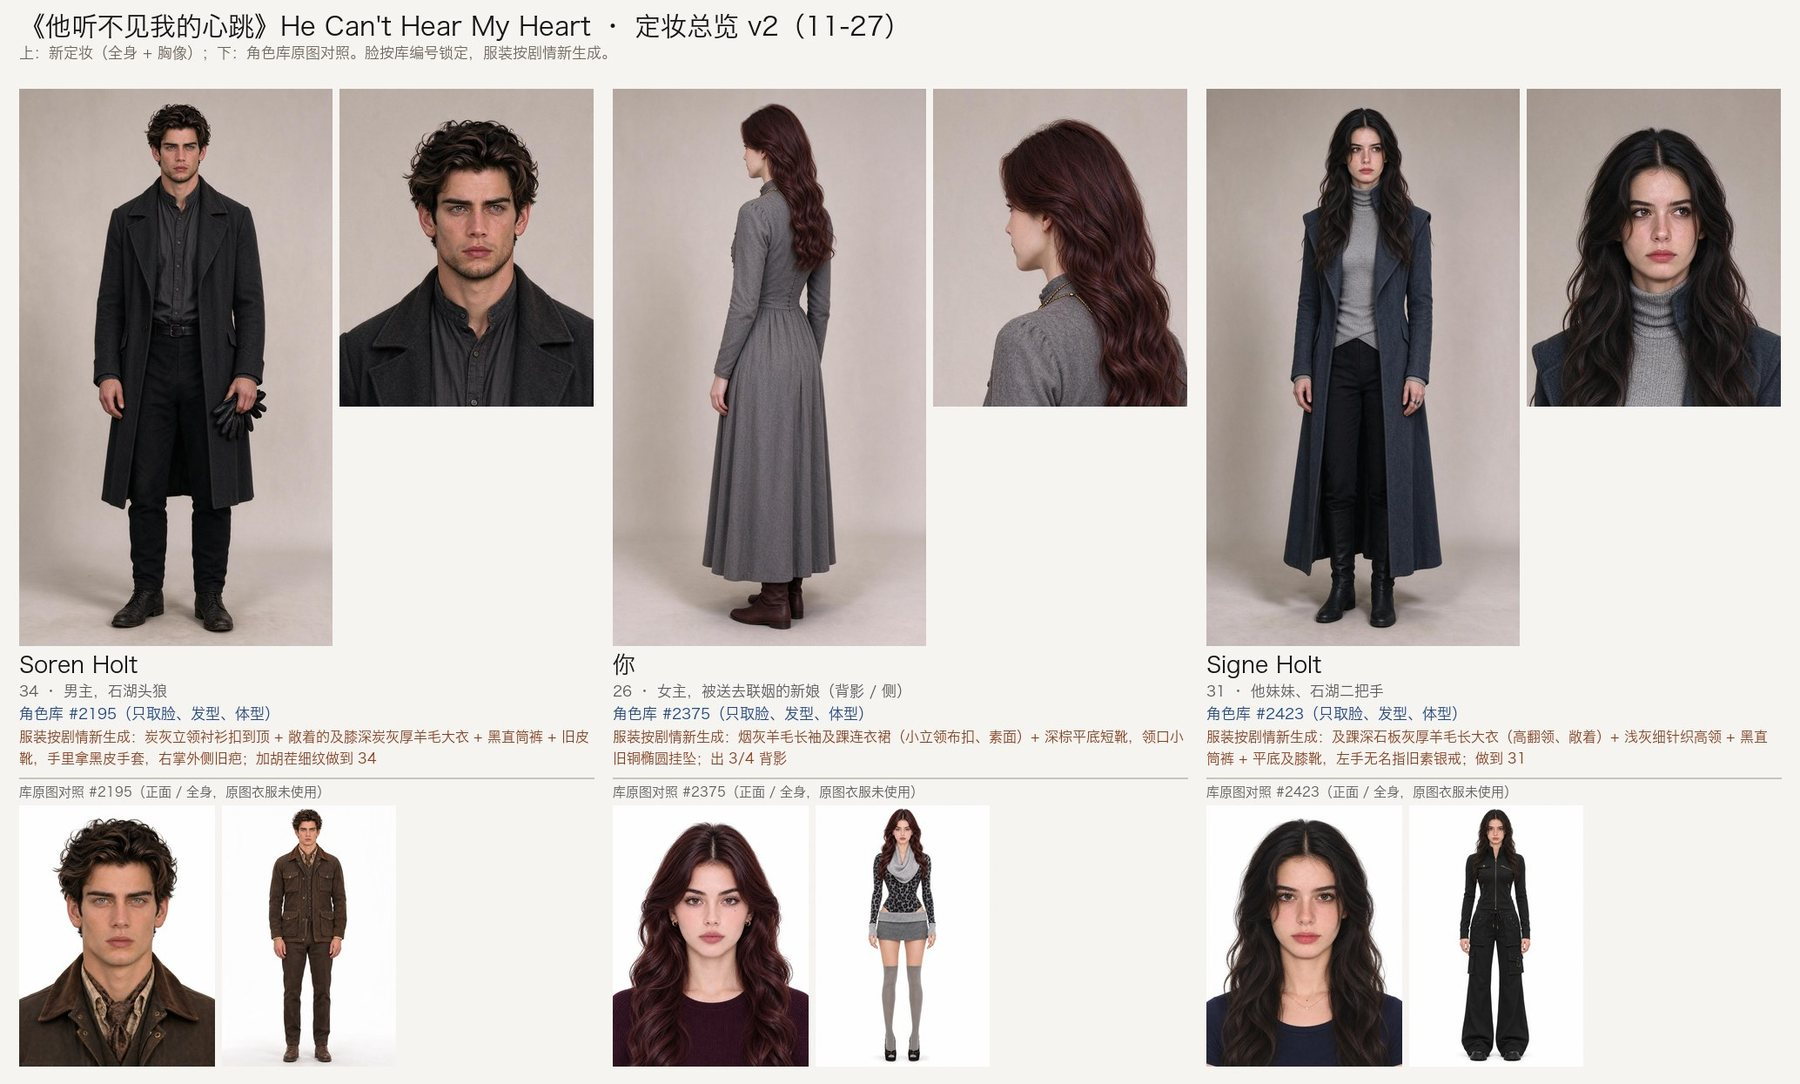
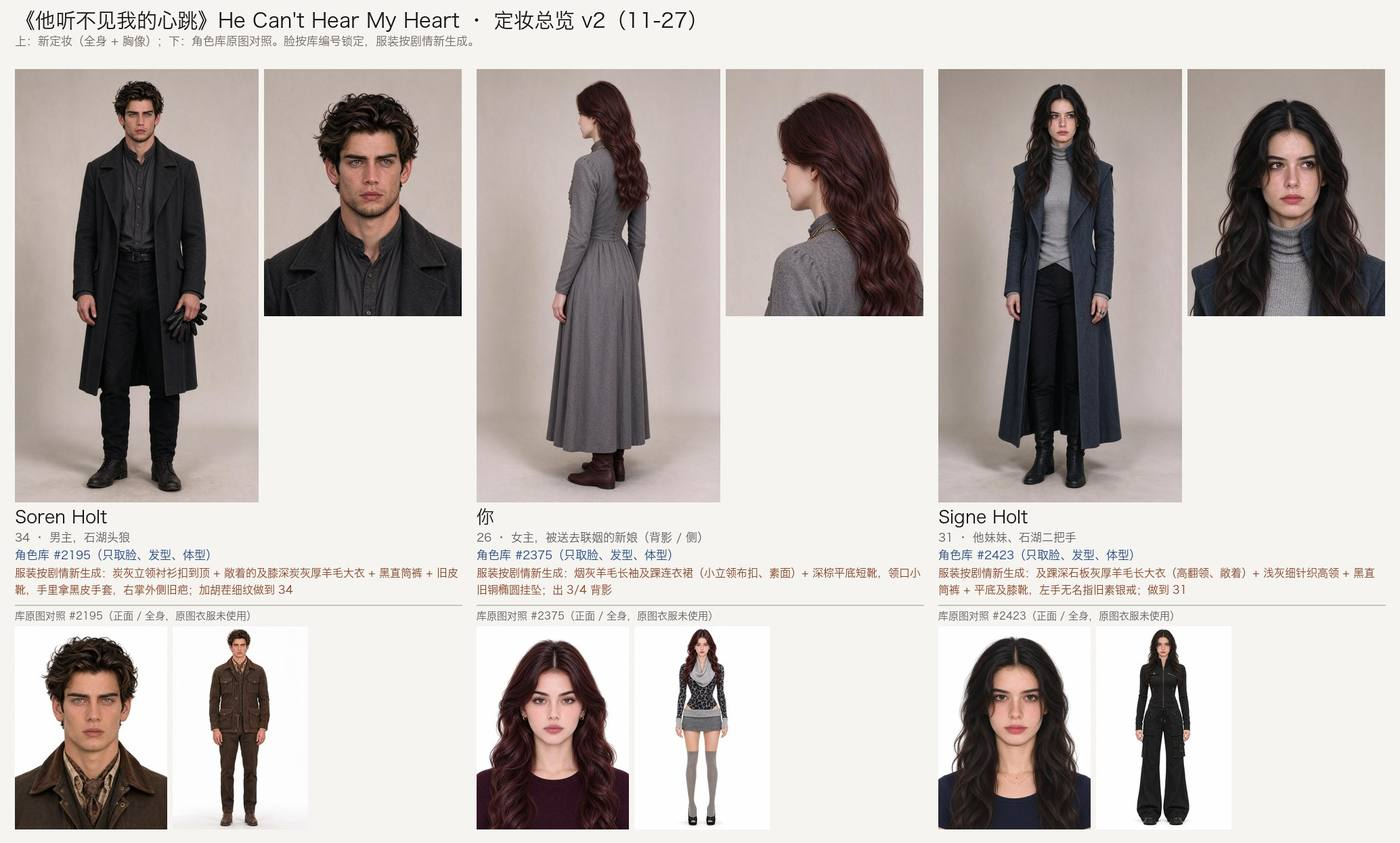
Narra 定妆确认页：图片压小 + 备用 CDN；deadair/aubade 已定主选

Changed region(s): [[0.7679, 0.6785, 0.7986, 0.7094], [0.1229, 0.0, 0.1536, 0.0308]]

diff --git a/docs/narra-visual-1127/index.html b/docs/narra-visual-1127/index.html
@@ -5,42 +5,42 @@ nav{position:sticky;top:0;z-index:5;background:var(--bg);border-bottom:1px solid
 main{max-width:1040px;margin:0 auto;padding:20px 16px 80px}h1{font-size:23px;margin:6px 0 10px}.lead{background:var(--card);border:1px solid var(--line);border-radius:10px;padding:10px 14px}
 h3{font-size:19px;margin:40px 0 10px;padding:10px 14px;background:var(--card);border-left:4px solid var(--acc);border-radius:6px}h3 .g{font-size:13px;color:var(--mute);font-weight:400;margin-left:6px}
 .covers{display:flex;gap:14px}.covers figure{flex:1;margin:0;max-width:340px}figure img{width:100%;display:block;border-radius:8px;border:1px solid var(--line)}figcaption{font-size:12px;color:var(--mute);margin-top:4px}
-.ov{margin:16px 0}h4{margin:14px 0 4px}ul{padding-left:20px}li{margin:3px 0}
+.ov{margin:16px 0}.done{background:#e6f4ea;color:#1e5b33;border-radius:8px;padding:6px 12px;font-weight:600}h4{margin:14px 0 4px}ul{padding-left:20px}li{margin:3px 0}
 .ask{background:var(--call);border:1px solid var(--callb);border-radius:10px;padding:8px 14px;margin-top:10px}.ask ul{list-style:none;padding-left:0}.ask label{display:flex;gap:8px;align-items:flex-start}.ask input{margin-top:5px;width:17px;height:17px;flex:none;accent-color:var(--acc)}</style></head><body><nav><a href="#deadair">她还在线上</a><a href="#hush">他听不见我的心跳</a><a href="#aubade">五秒之外</a><a href="#rainshop">雨停之前，书店不打烊</a><a href="#truename">我叫出了他的真名</a><a href="#sayso">等你一句话</a><a href="#lastlevel">他的最后一级</a><a href="#veto">一票否决</a></nav><main>
 <h1>Narra 新剧定妆与封面（11-27）</h1><div class="lead"><p><b>人选</b>：用的是你确认和我推荐的形象，从角色库里取脸、发型和体型。<b>服装没有用库图里的</b>，是按每部剧的设定重新设计后生成的。</p>
 <p><b>画风</b>：8 部统一写实电影感，往通透、干净的方向做。每部各有两版封面（主选和备选），以及一张定妆总览。总览下面放了角色库原图，方便对照脸有没有跑。</p>
 <p>这些图目前只存在本地，没有上线。你确认后，我再补剧照，给后四部配音，然后一起接进测试版。</p>
 <p><b>共同问题</b>：库里最新几组的脸都偏年轻，男主们看着大约 26–30 岁，比剧本里写的 31–35 岁年轻。已经加了胡茬和细纹，再往老里推就不像本人了。</p>
-<p>回复方式：每部说「用主选 / 用备选」，有要改的直接说，比如「Noel 不要眼镜」。</p></div><section id="deadair"><h3>《她还在线上》Still On the Line <span class="g">办案 · 你是华生</span></h3>
-<div class="covers"><figure><a href="img/deadair_cover.jpg" target="_blank"><img loading="lazy" src="img/deadair_cover.jpg"></a><figcaption>封面 · 主选</figcaption></figure><figure><a href="img/deadair_cover_alt.jpg" target="_blank"><img loading="lazy" src="img/deadair_cover_alt.jpg"></a><figcaption>封面 · 备选</figcaption></figure></div>
-<figure class="ov"><a href="img/deadair_cast.jpg" target="_blank"><img loading="lazy" src="img/deadair_cast.jpg"></a><figcaption>定妆总览：上面是这次的定妆（服装按剧情新生成），下面是角色库原图对照。点开看大图。</figcaption></figure>
+<p>回复方式：每部说「用主选 / 用备选」，有要改的直接说，比如「Noel 不要眼镜」。</p></div><section id="deadair"><h3>《她还在线上》Still On the Line <span class="g">办案 · 你是华生</span></h3><p class="done">✅ 已定：用主选封面（11-27）</p>
+<div class="covers"><figure><a href="img/deadair_cover.jpg" target="_blank"><img src="img/deadair_cover.jpg"></a><figcaption>封面 · 主选</figcaption></figure><figure><a href="img/deadair_cover_alt.jpg" target="_blank"><img src="img/deadair_cover_alt.jpg"></a><figcaption>封面 · 备选</figcaption></figure></div>
+<figure class="ov"><a href="img/deadair_cast.jpg" target="_blank"><img src="img/deadair_cast.jpg"></a><figcaption>定妆总览：上面是这次的定妆（服装按剧情新生成），下面是角色库原图对照。点开看大图。</figcaption></figure>
 <h4>服装设定</h4><ul><li>Jude #2231：炭灰及膝羊毛大衣，深灰针织衫配白衬衫领，右手背旧烧伤浅疤，加了胡茬和细纹</li><li>你 #2291：橄榄色束腰短风衣、深靛蓝阔腿牛仔裤，手拿黑色小本子（3/4 背影）</li><li>Petra #2465：黑色工装夹克配酒红高领，挂着头戴耳机、胸袋插录音笔</li><li>Iris #2627：象牙白麻花高领毛衣、细长银吊坠，做到 40 岁观感（封面里是墙上的黑白照片）</li><li>Danny #2267：浅灰拉链卫衣、黑框眼镜、空白工牌、没刮的胡茬</li></ul>
-<div class="ask"><b>要你定</b><ul><li><label><input type="checkbox" data-id="deadair-0"><span>Jude 和 Danny 来自同一组男模，脸型接近，只能靠眼镜、卫衣、胡茬拉开。要不要给 Danny 换人？</span></label></li><li><label><input type="checkbox" data-id="deadair-1"><span>保留了库里的发型，和剧本写的不一样：Jude 黑发（剧本写棕卷）、Petra 高髻（剧本写短发）、Iris 金发（剧本写深栗棕）。按图改剧本可以吗？</span></label></li></ul></div></section><section id="hush"><h3>《他听不见我的心跳》He Can&#x27;t Hear My Heart <span class="g">狼人契约言情</span></h3>
-<div class="covers"><figure><a href="img/hush_cover.jpg" target="_blank"><img loading="lazy" src="img/hush_cover.jpg"></a><figcaption>封面 · 主选</figcaption></figure><figure><a href="img/hush_cover_alt.jpg" target="_blank"><img loading="lazy" src="img/hush_cover_alt.jpg"></a><figcaption>封面 · 备选</figcaption></figure></div>
-<figure class="ov"><a href="img/hush_cast.jpg" target="_blank"><img loading="lazy" src="img/hush_cast.jpg"></a><figcaption>定妆总览：上面是这次的定妆（服装按剧情新生成），下面是角色库原图对照。点开看大图。</figcaption></figure>
+<div class="ask"><b>要你定</b><ul><li><label><input type="checkbox" data-id="deadair-0"><span>Jude 和 Danny 来自同一组男模，脸型接近，只能靠眼镜、卫衣、胡茬拉开。要不要给 Danny 换人？</span></label></li><li><label><input type="checkbox" data-id="deadair-1"><span>保留了库里的发型，和剧本写的不一样：Jude 黑发（剧本写棕卷）、Petra 高髻（剧本写短发）、Iris 金发（剧本写深栗棕）。按图改剧本可以吗？</span></label></li></ul></div></section><section id="hush"><h3>《他听不见我的心跳》He Can&#x27;t Hear My Heart <span class="g">狼人契约言情</span></h3><p class="done">⏳ 你说这两部都不好，正在重新生成定妆和封面，出来后替换这里</p>
+<div class="covers"><figure><a href="img/hush_cover.jpg" target="_blank"><img src="img/hush_cover.jpg"></a><figcaption>封面 · 主选</figcaption></figure><figure><a href="img/hush_cover_alt.jpg" target="_blank"><img src="img/hush_cover_alt.jpg"></a><figcaption>封面 · 备选</figcaption></figure></div>
+<figure class="ov"><a href="img/hush_cast.jpg" target="_blank"><img src="img/hush_cast.jpg"></a><figcaption>定妆总览：上面是这次的定妆（服装按剧情新生成），下面是角色库原图对照。点开看大图。</figcaption></figure>
 <h4>服装设定</h4><ul><li>Soren #2195：炭灰立领衬衫扣到顶，敞着的炭灰羊毛大衣，手里拿着黑皮手套</li><li>你 #2375：烟灰色素面长袖及踝羊毛裙，领口一枚小旧铜挂坠（背影）</li><li>Signe #2423：及踝石板灰长大衣配浅灰高领，左手无名指一枚旧银戒</li></ul>
-<div class="ask"><b>要你定</b><ul><li><label><input type="checkbox" data-id="hush-0"><span>Signe 是散着的长卷发（剧本写低马尾），看着接近 30 岁，偏年轻一点，可以吗？</span></label></li></ul></div></section><section id="aubade"><h3>《五秒之外》Five Seconds Away <span class="g">探索宇宙</span></h3>
-<div class="covers"><figure><a href="img/aubade_cover.jpg" target="_blank"><img loading="lazy" src="img/aubade_cover.jpg"></a><figcaption>封面 · 主选</figcaption></figure><figure><a href="img/aubade_cover_alt.jpg" target="_blank"><img loading="lazy" src="img/aubade_cover_alt.jpg"></a><figcaption>封面 · 备选</figcaption></figure></div>
-<figure class="ov"><a href="img/aubade_cast.jpg" target="_blank"><img loading="lazy" src="img/aubade_cast.jpg"></a><figcaption>定妆总览：上面是这次的定妆（服装按剧情新生成），下面是角色库原图对照。点开看大图。</figcaption></figure>
+<div class="ask"><b>要你定</b><ul><li><label><input type="checkbox" data-id="hush-0"><span>Signe 是散着的长卷发（剧本写低马尾），看着接近 30 岁，偏年轻一点，可以吗？</span></label></li></ul></div></section><section id="aubade"><h3>《五秒之外》Five Seconds Away <span class="g">探索宇宙</span></h3><p class="done">✅ 已定：用主选封面（11-27）</p>
+<div class="covers"><figure><a href="img/aubade_cover.jpg" target="_blank"><img src="img/aubade_cover.jpg"></a><figcaption>封面 · 主选</figcaption></figure><figure><a href="img/aubade_cover_alt.jpg" target="_blank"><img src="img/aubade_cover_alt.jpg"></a><figcaption>封面 · 备选</figcaption></figure></div>
+<figure class="ov"><a href="img/aubade_cast.jpg" target="_blank"><img src="img/aubade_cast.jpg"></a><figcaption>定妆总览：上面是这次的定妆（服装按剧情新生成），下面是角色库原图对照。点开看大图。</figcaption></figure>
 <h4>服装设定</h4><ul><li>Ronan #2129：A 套炭灰藏青连体飞行服；B 套第 1 集的白灰压力服，头盔夹在臂弯；两套都带右腕胶布夹板，没有任何徽章</li><li>你 #2303：燕麦灰粗针长开衫、炭灰工装裤，脖子上挂无线电耳机（正背影）</li></ul>
-<div class="ask"><b>要你定</b><ul><li><label><input type="checkbox" data-id="aubade-0"><span>备选封面里 Ronan 的脸叠在星空中，占了一点标题区，选主选还是备选？</span></label></li></ul></div></section><section id="rainshop"><h3>《雨停之前，书店不打烊》Open Till the Rain Stops <span class="g">场景型 ASMR</span></h3>
-<div class="covers"><figure><a href="img/rainshop_cover.jpg" target="_blank"><img loading="lazy" src="img/rainshop_cover.jpg"></a><figcaption>封面 · 主选</figcaption></figure><figure><a href="img/rainshop_cover_alt.jpg" target="_blank"><img loading="lazy" src="img/rainshop_cover_alt.jpg"></a><figcaption>封面 · 备选</figcaption></figure></div>
-<figure class="ov"><a href="img/rainshop_cast.jpg" target="_blank"><img loading="lazy" src="img/rainshop_cast.jpg"></a><figcaption>定妆总览：上面是这次的定妆（服装按剧情新生成），下面是角色库原图对照。点开看大图。</figcaption></figure>
+<div class="ask"><b>要你定</b><ul><li><label><input type="checkbox" data-id="aubade-0"><span>备选封面里 Ronan 的脸叠在星空中，占了一点标题区，选主选还是备选？</span></label></li></ul></div></section><section id="rainshop"><h3>《雨停之前，书店不打烊》Open Till the Rain Stops <span class="g">场景型 ASMR</span></h3><p class="done">⏳ 你说这两部都不好，正在重新生成定妆和封面，出来后替换这里</p>
+<div class="covers"><figure><a href="img/rainshop_cover.jpg" target="_blank"><img src="img/rainshop_cover.jpg"></a><figcaption>封面 · 主选</figcaption></figure><figure><a href="img/rainshop_cover_alt.jpg" target="_blank"><img src="img/rainshop_cover_alt.jpg"></a><figcaption>封面 · 备选</figcaption></figure></div>
+<figure class="ov"><a href="img/rainshop_cast.jpg" target="_blank"><img src="img/rainshop_cast.jpg"></a><figcaption>定妆总览：上面是这次的定妆（服装按剧情新生成），下面是角色库原图对照。点开看大图。</figcaption></figure>
 <h4>服装设定</h4><ul><li>Noel #2201：咖啡色亨利领针织、深橄榄色半身围裙、细圆金边眼镜；为了显年龄加了短胡茬（剧本原写不留胡子）</li></ul>
 <div class="ask"><b>要你定</b><ul><li><label><input type="checkbox" data-id="rainshop-0"><span>Noel 戴不戴眼镜？要不要留胡茬？（总览里有不戴眼镜的版本）</span></label></li></ul></div></section><section id="truename"><h3>《我叫出了他的真名》I Spoke His True Name <span class="g">玄幻 / 奇幻</span></h3>
-<div class="covers"><figure><a href="img/truename_cover.jpg" target="_blank"><img loading="lazy" src="img/truename_cover.jpg"></a><figcaption>封面 · 主选</figcaption></figure><figure><a href="img/truename_cover_alt.jpg" target="_blank"><img loading="lazy" src="img/truename_cover_alt.jpg"></a><figcaption>封面 · 备选</figcaption></figure></div>
-<figure class="ov"><a href="img/truename_cast.jpg" target="_blank"><img loading="lazy" src="img/truename_cast.jpg"></a><figcaption>定妆总览：上面是这次的定妆（服装按剧情新生成），下面是角色库原图对照。点开看大图。</figcaption></figure>
+<div class="covers"><figure><a href="img/truename_cover.jpg" target="_blank"><img src="img/truename_cover.jpg"></a><figcaption>封面 · 主选</figcaption></figure><figure><a href="img/truename_cover_alt.jpg" target="_blank"><img src="img/truename_cover_alt.jpg"></a><figcaption>封面 · 备选</figcaption></figure></div>
+<figure class="ov"><a href="img/truename_cast.jpg" target="_blank"><img src="img/truename_cast.jpg"></a><figcaption>定妆总览：上面是这次的定妆（服装按剧情新生成），下面是角色库原图对照。点开看大图。</figcaption></figure>
 <h4>服装设定</h4><ul><li>Orin #2645：黑色立领长外套，领口和袖口有暗银细荆棘刺绣，只有左手戴黑色薄手套，腰间挂一串小空玻璃瓶</li><li>你 #2651（已定）：锈棕细羊毛长袖中长裙，外搭燕麦色开衫，是全剧唯一的暖色</li><li>回声夫人 #2387：炭黑高立领长礼服，肩上叠烟灰薄纱，颈间挂一个发微光的小玻璃瓶，做到外表约 45 岁，左鬓一缕银发</li><li>Derek #2165：深藏青西装外套配奶白针织衫，像特意穿好的普通人</li></ul>
 <div class="ask"><b>要你定</b><ul><li><label><input type="checkbox" data-id="truename-0"><span>你定的 #2651 观感大约 24–25 岁，再往成熟推就不像本人了，可以接受吗？</span></label></li></ul></div></section><section id="sayso"><h3>《等你一句话》Until You Say So <span class="g">神豪 / 隐藏身份（女性向）</span></h3>
-<div class="covers"><figure><a href="img/sayso_cover.jpg" target="_blank"><img loading="lazy" src="img/sayso_cover.jpg"></a><figcaption>封面 · 主选</figcaption></figure><figure><a href="img/sayso_cover_alt.jpg" target="_blank"><img loading="lazy" src="img/sayso_cover_alt.jpg"></a><figcaption>封面 · 备选</figcaption></figure></div>
-<figure class="ov"><a href="img/sayso_cast.jpg" target="_blank"><img loading="lazy" src="img/sayso_cast.jpg"></a><figcaption>定妆总览：上面是这次的定妆（服装按剧情新生成），下面是角色库原图对照。点开看大图。</figcaption></figure>
+<div class="covers"><figure><a href="img/sayso_cover.jpg" target="_blank"><img src="img/sayso_cover.jpg"></a><figcaption>封面 · 主选</figcaption></figure><figure><a href="img/sayso_cover_alt.jpg" target="_blank"><img src="img/sayso_cover_alt.jpg"></a><figcaption>封面 · 备选</figcaption></figure></div>
+<figure class="ov"><a href="img/sayso_cast.jpg" target="_blank"><img src="img/sayso_cast.jpg"></a><figcaption>定妆总览：上面是这次的定妆（服装按剧情新生成），下面是角色库原图对照。点开看大图。</figcaption></figure>
 <h4>服装设定</h4><ul><li>Vaughn #2279：白衬衫挽袖、黑侍应马甲、旧钢表，腰间挂铜钥匙牌（牌上无字）</li><li>你 #2315：象牙白真丝长袖中长裙，驼色大衣披肩，戴小珍珠</li><li>Lance #2273：藏青细格三件套、酒红领带、银袖扣</li><li>Bianca #2441：香槟缎面半裙配粉色圈圈呢短外套</li></ul>
 <div class="ask"><b>要你定</b><ul><li><label><input type="checkbox" data-id="sayso-0"><span>备选封面里你是半侧脸（规则允许），主选是背影，选哪张？主选里有两枚钥匙牌，选定后修掉。</span></label></li></ul></div></section><section id="lastlevel"><h3>《他的最后一级》His Last Level <span class="g">系统 / 升级</span></h3>
-<div class="covers"><figure><a href="img/lastlevel_cover.jpg" target="_blank"><img loading="lazy" src="img/lastlevel_cover.jpg"></a><figcaption>封面 · 主选</figcaption></figure><figure><a href="img/lastlevel_cover_alt.jpg" target="_blank"><img loading="lazy" src="img/lastlevel_cover_alt.jpg"></a><figcaption>封面 · 备选</figcaption></figure></div>
-<figure class="ov"><a href="img/lastlevel_cast.jpg" target="_blank"><img loading="lazy" src="img/lastlevel_cast.jpg"></a><figcaption>定妆总览：上面是这次的定妆（服装按剧情新生成），下面是角色库原图对照。点开看大图。</figcaption></figure>
+<div class="covers"><figure><a href="img/lastlevel_cover.jpg" target="_blank"><img src="img/lastlevel_cover.jpg"></a><figcaption>封面 · 主选</figcaption></figure><figure><a href="img/lastlevel_cover_alt.jpg" target="_blank"><img src="img/lastlevel_cover_alt.jpg"></a><figcaption>封面 · 备选</figcaption></figure></div>
+<figure class="ov"><a href="img/lastlevel_cast.jpg" target="_blank"><img src="img/lastlevel_cast.jpg"></a><figcaption>定妆总览：上面是这次的定妆（服装按剧情新生成），下面是角色库原图对照。点开看大图。</figcaption></figure>
 <h4>服装设定</h4><ul><li>Ansel #2068：黑色长大衣、炭灰粗针织围巾、雾蓝工装衬衫，腰间一串黄铜钥匙，手拿旧书</li><li>你 #2501：墨绿蜡棉短夹克、黑高领衫，戴银羽毛吊坠</li><li>Dex #2147：炭灰摩托骑行夹克带橙色细嵌条，夹着无标志的黑头盔</li><li>Elodie #2369：鸽灰亨利领针织长裙，配锈棕围巾</li></ul>
 <div class="ask"><b>要你定</b><ul><li><label><input type="checkbox" data-id="lastlevel-0"><span>封面整体偏暗蓝，要不要调亮一点？</span></label></li></ul></div></section><section id="veto"><h3>《一票否决》Veto <span class="g">现代言情 / 霸总</span></h3>
-<div class="covers"><figure><a href="img/veto_cover.jpg" target="_blank"><img loading="lazy" src="img/veto_cover.jpg"></a><figcaption>封面 · 主选</figcaption></figure><figure><a href="img/veto_cover_alt.jpg" target="_blank"><img loading="lazy" src="img/veto_cover_alt.jpg"></a><figcaption>封面 · 备选</figcaption></figure></div>
-<figure class="ov"><a href="img/veto_cast.jpg" target="_blank"><img loading="lazy" src="img/veto_cast.jpg"></a><figcaption>定妆总览：上面是这次的定妆（服装按剧情新生成），下面是角色库原图对照。点开看大图。</figcaption></figure>
+<div class="covers"><figure><a href="img/veto_cover.jpg" target="_blank"><img src="img/veto_cover.jpg"></a><figcaption>封面 · 主选</figcaption></figure><figure><a href="img/veto_cover_alt.jpg" target="_blank"><img src="img/veto_cover_alt.jpg"></a><figcaption>封面 · 备选</figcaption></figure></div>
+<figure class="ov"><a href="img/veto_cast.jpg" target="_blank"><img src="img/veto_cast.jpg"></a><figcaption>定妆总览：上面是这次的定妆（服装按剧情新生成），下面是角色库原图对照。点开看大图。</figcaption></figure>
 <h4>服装设定</h4><ul><li>Leon #2135：黑色双排扣西装、深灰衬衫开一颗扣、旧钢表（定妆多出一块白色口袋巾，选定后去掉）</li><li>你 #2411：炭灰西装外套、白圆领衬衫、阔腿裤，眼镜挂在领口，抱着纸箱</li><li>Pierce #2141：灰米宽肩双排扣西装、金框眼镜，做到 38–40 岁观感</li></ul>
-<div class="ask"><b>要你定</b><ul><li><label><input type="checkbox" data-id="veto-0"><span>主选是落地窗前递门卡，备选是玻璃电梯，选哪张？</span></label></li></ul></div></section></main><script>document.querySelectorAll('.ask input').forEach(function(c){var k='narra-visual-1127:'+c.dataset.id;try{c.checked=localStorage.getItem(k)==='1'}catch(e){}c.addEventListener('change',function(){try{localStorage.setItem(k,c.checked?'1':'0')}catch(e){}})})</script></body></html>
+<div class="ask"><b>要你定</b><ul><li><label><input type="checkbox" data-id="veto-0"><span>主选是落地窗前递门卡，备选是玻璃电梯，选哪张？</span></label></li></ul></div></section></main><script>var CDN="https://cdn.jsdelivr.net/gh/lyx1265897416-lab/realtime-drama-app@main/docs/narra-visual-1127/";document.querySelectorAll("img").forEach(function(i){i.addEventListener("error",function(){if(!i.dataset.fb){i.dataset.fb=1;i.src=CDN+i.getAttribute("src")}})});document.querySelectorAll('.ask input').forEach(function(c){var k='narra-visual-1127:'+c.dataset.id;try{c.checked=localStorage.getItem(k)==='1'}catch(e){}c.addEventListener('change',function(){try{localStorage.setItem(k,c.checked?'1':'0')}catch(e){}})})</script></body></html>
